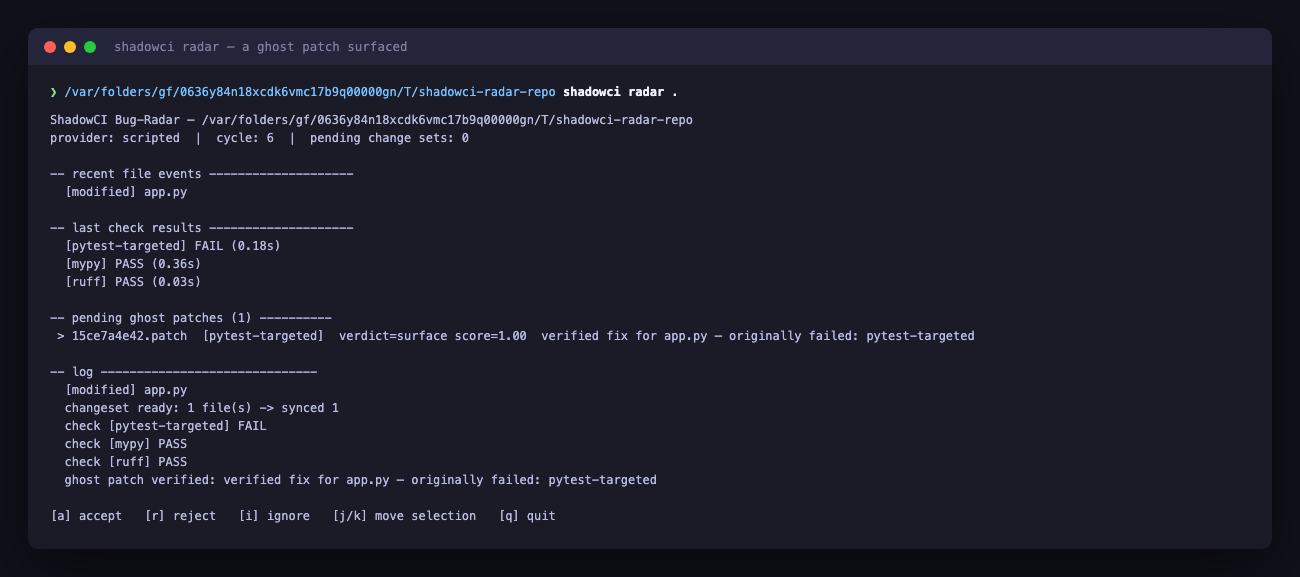
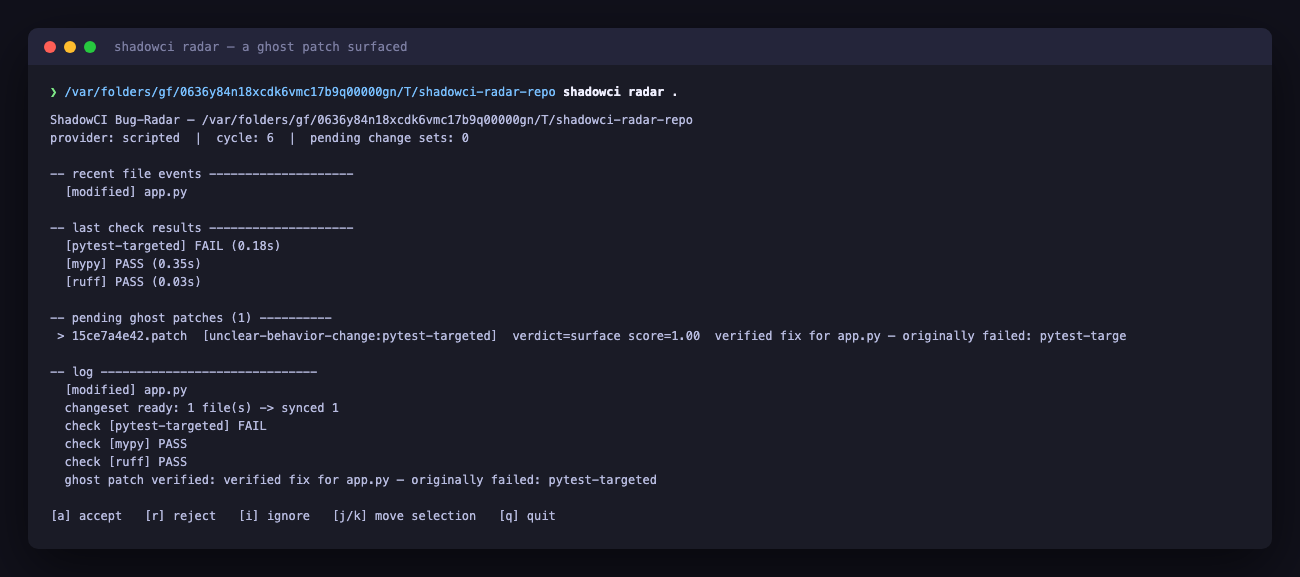
docs: describe failure classification and regenerate affected screenshots
The radar demo's pre-seeded accept history used the plain pytest-targeted
fingerprint; the real pipeline now classifies that scenario (editing code
a passing test covers) as unclear-behavior-change, so the seed must match
the new <class>:<checks> fingerprint for the demo to still show the
interruption policy surfacing the patch. Regenerated every screenshot with
scripts/capture_screenshots.py; only the ones whose real output changed
differ.

Changed region(s): [[0.1538, 0.5615, 0.8615, 0.5927]]

diff --git a/scripts/capture_screenshots.py b/scripts/capture_screenshots.py
@@ -542,11 +542,15 @@ def main() -> None:
             poll_interval_seconds=0.05,
         )
 
-        # Pre-seed accept history for "pytest-targeted" so the interruption
-        # policy is already biased toward surfacing the next fix of that kind.
+        # Pre-seed accept history for this fix's fingerprint so the
+        # interruption policy is already biased toward surfacing the next
+        # one of its kind. Editing app.py under test_app.py, which passed
+        # at HEAD, classifies as "unclear-behavior-change" (issue #38).
         seed_store = shadowci_pipeline.signal_store(radar_repo)
         for i in range(3):
-            seed_store.record("pytest-targeted", Signal.ACCEPT, f"seed{i}")
+            seed_store.record(
+                "unclear-behavior-change:pytest-targeted", Signal.ACCEPT, f"seed{i}"
+            )
 
         engine = shadowci_radar.RadarEngine(radar_config)
         engine.ensure_worktree()

diff --git a/README.md b/README.md
@@ -34,9 +34,14 @@ spelled out.
 
 Every verified patch also feeds an interruption policy: `apply-ghost`,
 `reject-ghost`, and `ignore-ghost` each record what you actually did with a
-fix, grouped by the kind of check that originally failed. With no history
-for that kind of fix yet, ShadowCI stays quiet by default — it only
-flags a patch as worth surfacing once enough accepted fixes of that kind
+fix, grouped by the kind of check that originally failed *and* how the
+failure was classified (issue #38) — whether the edited code is what the
+failing test covers, whether that test passed at `HEAD`, or whether the
+user edited the test itself — so a rejected "this looked like a revert"
+patch never drags down the score of an unrelated, unambiguous fix just
+because the same check happened to fail. With no history for that kind of
+fix yet, ShadowCI stays quiet by default — it only flags a patch as worth
+surfacing once enough accepted fixes of that kind
 show it's wanted. `shadowci signals` shows the running tally and the
 policy's current verdict for each kind of fix.
 
@@ -197,8 +202,10 @@ in one place, with no pending patches yet.
 
 **A ghost patch surfaces on the dashboard** — a real bug lands, the
 targeted test fails, the scripted provider's fix verifies, and because this
-kind of fix ("pytest-targeted") already has an accepted history, the
-interruption policy marks it `verdict=surface` instead of staying silent.
+kind of fix (`unclear-behavior-change:pytest-targeted` — the edited code is
+what the failing test covers, and it passed at `HEAD`; see issue #38)
+already has an accepted history, the interruption policy marks it
+`verdict=surface` instead of staying silent.
 
 ![shadowci radar with a ghost patch surfaced](docs/screenshots/15-radar-pending-patch.png)
 
@@ -325,11 +332,21 @@ ShadowCI's planned feature set is complete and fully tested (190 tests):
   of a silent fix whenever a matching test rewrite can also be verified;
   `apply-ghost <digest>` applies the chosen option and retires its sibling
   with no signal recorded for it.
+- Failure classification (issue #38): before escalating, ShadowCI sorts a
+  failure into `regression-elsewhere` (edited code the failing test
+  doesn't cover, which passed at `HEAD`), `test-edited` (the user edited
+  the failing test itself — the test is the new spec, and a patch may
+  never touch it), `unclear-behavior-change` (edited code the test does
+  cover, which passed at `HEAD`), or `pre-existing` (the test already
+  failed at `HEAD`, so this edit never gets escalated as its cause, and no
+  patch is produced).
 - Interruption policy: `apply-ghost` / `reject-ghost` / `ignore-ghost`
   record accept/reject/ignore signals grouped by the kind of check that
-  originally failed; a deterministic, silent-by-default scoring model
-  decides whether a future fix of that kind is worth surfacing, and
-  `shadowci signals` reports the running tally and verdict.
+  originally failed *and* its classification above; a deterministic,
+  silent-by-default scoring model decides whether a future fix of that
+  kind is worth surfacing, and `shadowci signals` reports the running
+  tally and verdict per class — a signals file from before issue #38
+  (plain, unprefixed fingerprints) keeps loading alongside new ones.
 - `shadowci radar`: a terminal dashboard over the same pipeline, showing
   watched files, live check status, and pending ghost patches with their
   interruption-policy verdict; `a`/`r`/`i` keybindings accept/reject/ignore
